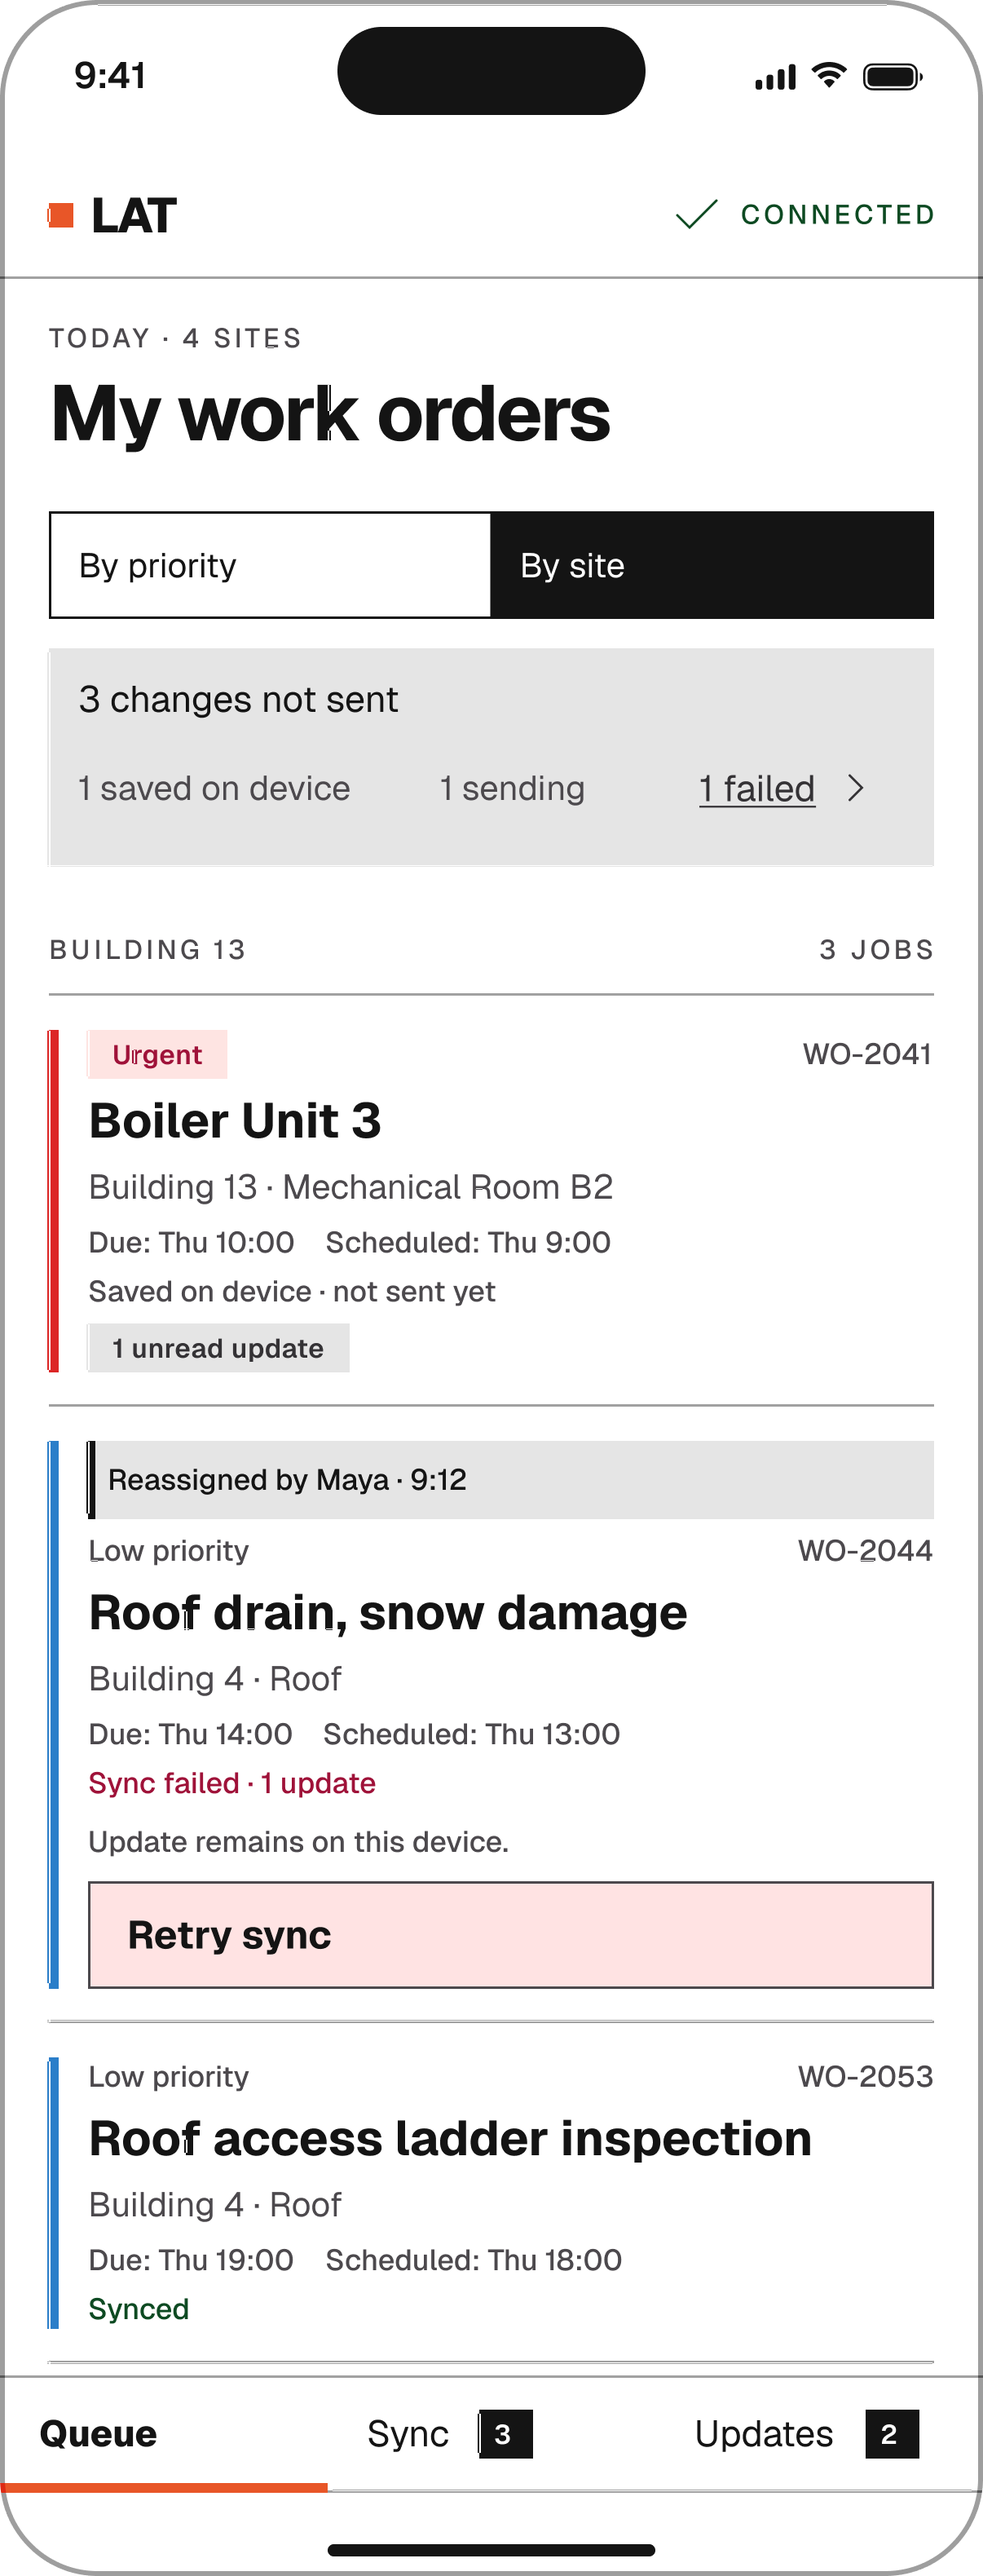
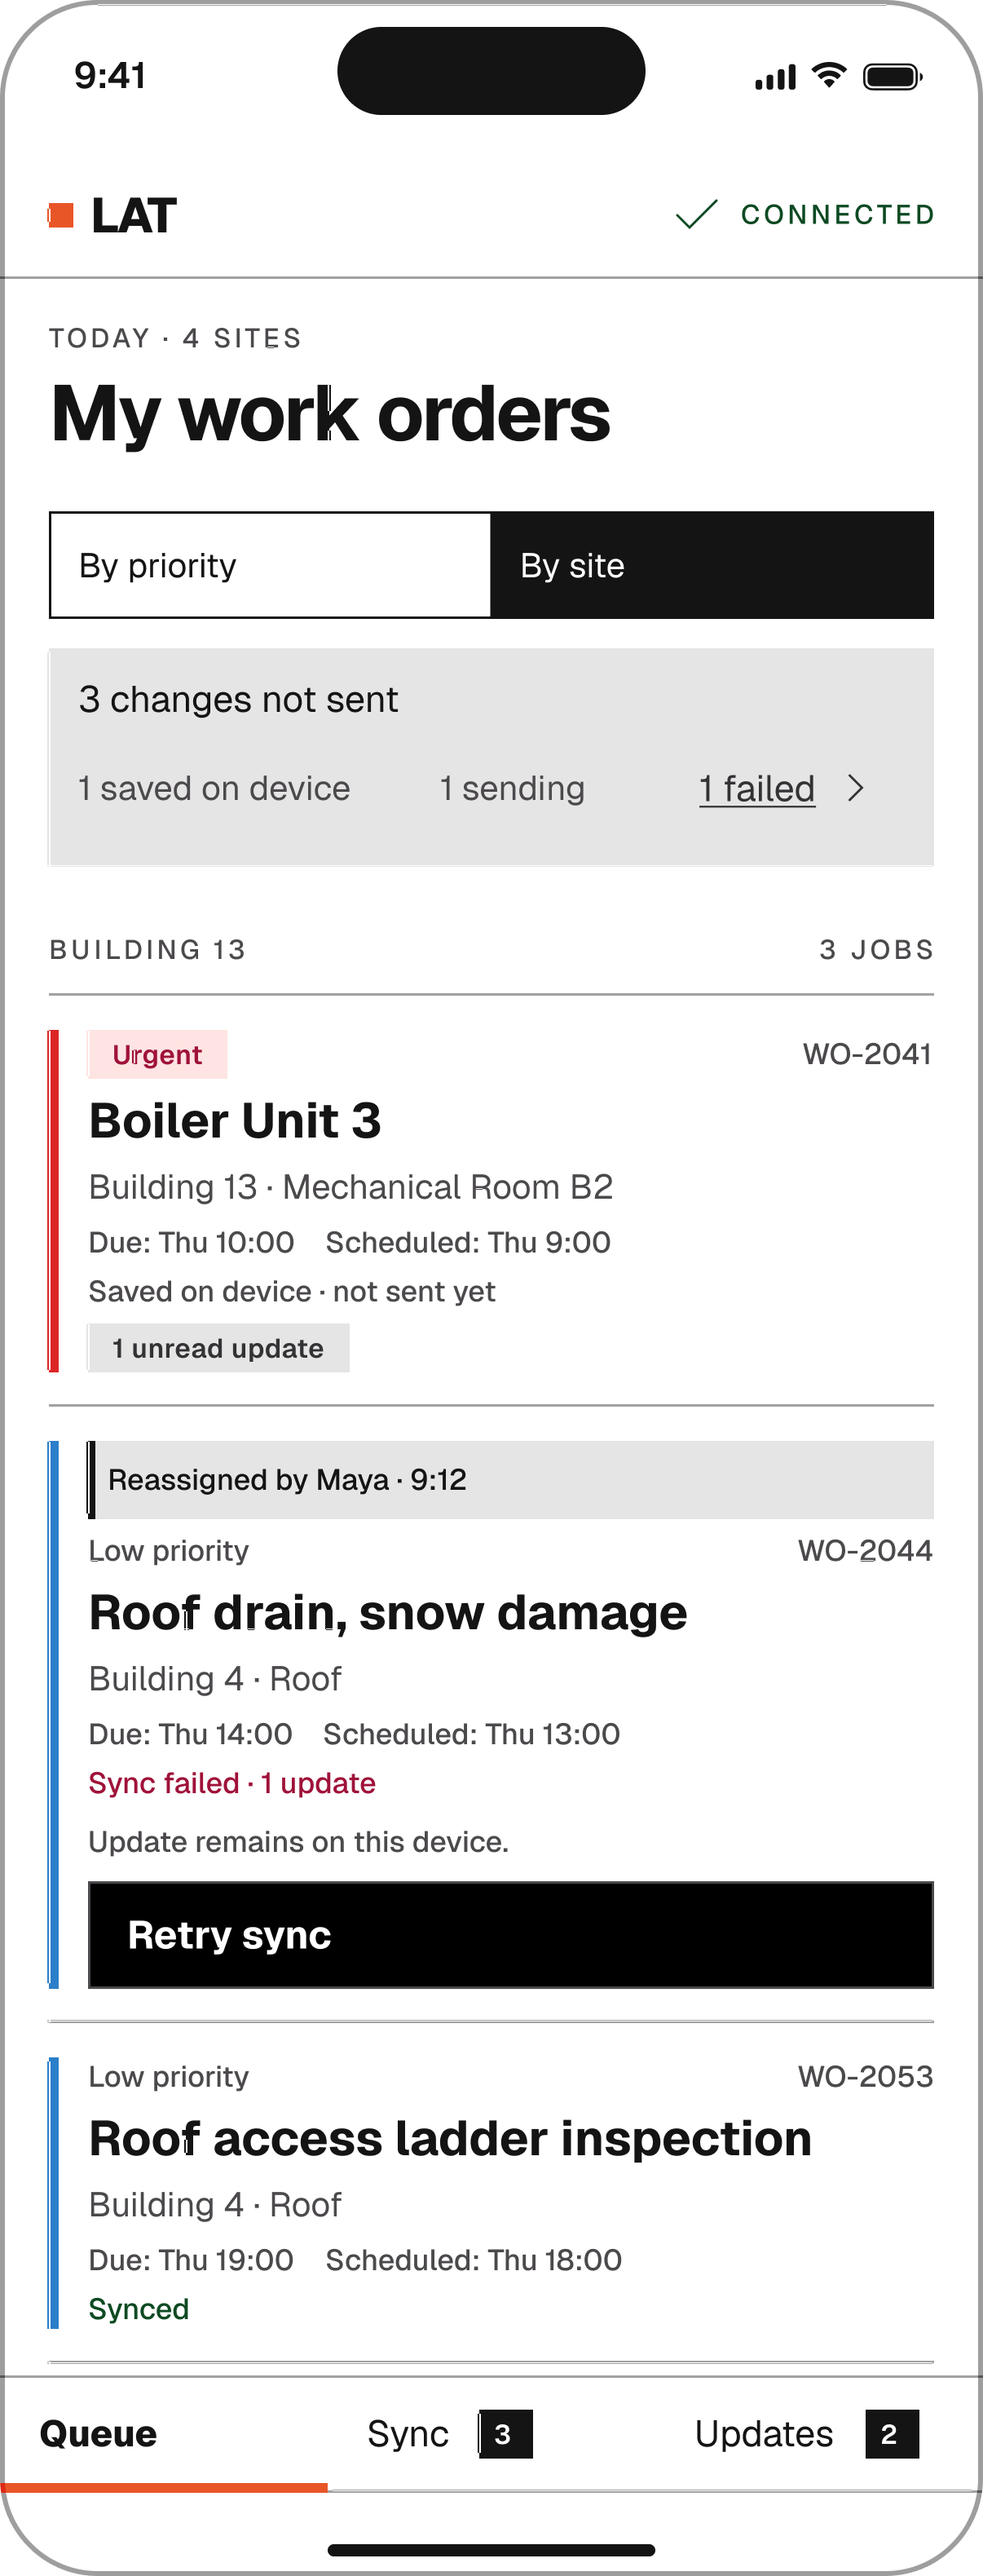
Polish technician queue: remove dashed highlights, use clean failed-state asset
- Removed the pulsing dashed highlight boxes from the "up close" row per
  feedback — the tight zoom crops already make the delta obvious.
- Swapped in a purpose-cropped "Sync failed.png" for the failed/retry
  close-up, replacing the rough full-screen crop.
- V3 screen's Retry sync button restyled to solid black, matching the
  site's other primary buttons.

Changed region(s): [[0.092, 0.7135, 0.9511, 0.7756]]

diff --git a/app/work/[slug]/page.tsx b/app/work/[slug]/page.tsx
@@ -832,10 +832,7 @@ const caseStudies = {
 
                   <div style={{ flex: '0 1 440px', minWidth: '320px' }}>
                     <div style={{ backgroundColor: '#FFFFFF', border: '1px solid #E7E5E4', boxShadow: '0 2px 10px rgba(0,0,0,0.06)', padding: '20px' }}>
-                      <div style={{ position: 'relative' }}>
-                        <img loading="lazy" decoding="async" width={1086} height={222} src="/images/lat/Work%20order%20Zoom.png" alt="Work order card, zoomed on the sync state and the new unread update badge" style={{ width: '100%', height: 'auto', display: 'block' }} />
-                        <div className="cs-highlight-box" style={{ top: '46px', height: '33px' }} />
-                      </div>
+                      <img loading="lazy" decoding="async" width={1086} height={222} src="/images/lat/Work%20order%20Zoom.png" alt="Work order card, zoomed on the sync state and the new unread update badge" style={{ width: '100%', height: 'auto', display: 'block' }} />
                     </div>
                     <div style={{ fontSize: '11px', fontWeight: 700, letterSpacing: '0.04em', textTransform: 'uppercase', color: '#FF7C5F', marginTop: '14px' }}>+ Unread flag</div>
                     <div style={{ fontSize: '13px', color: '#57534E', marginTop: '4px' }}>"1 unread update" flags a change on this job the technician hasn't seen yet.</div>
@@ -843,10 +840,7 @@ const caseStudies = {
 
                   <div style={{ flex: '0 1 440px', minWidth: '320px' }}>
                     <div style={{ backgroundColor: '#FFFFFF', border: '1px solid #E7E5E4', boxShadow: '0 2px 10px rgba(0,0,0,0.06)', padding: '20px' }}>
-                      <div style={{ position: 'relative' }}>
-                        <img loading="lazy" decoding="async" width={1206} height={711} src="/images/lat/Work%20order%20Failed%20Zoom.png" alt="Work order card showing a failed sync and the Retry sync button, for the Roof drain job reassigned by Maya" style={{ width: '100%', height: 'auto', display: 'block' }} />
-                        <div className="cs-highlight-box" style={{ top: '131px', height: '103px' }} />
-                      </div>
+                      <img loading="lazy" decoding="async" width={1086} height={756} src="/images/lat/Sync%20failed.png" alt="Work order card showing a failed sync and the Retry sync button, for the Roof drain job reassigned by Maya" style={{ width: '100%', height: 'auto', display: 'block' }} />
                     </div>
                     <div style={{ fontSize: '11px', fontWeight: 700, letterSpacing: '0.04em', textTransform: 'uppercase', color: '#FF7C5F', marginTop: '14px' }}>+ Failed and retry</div>
                     <div style={{ fontSize: '13px', color: '#57534E', marginTop: '4px' }}>When sync fails, the card says so in place and offers Retry — the update stays safe on the device either way.</div>

diff --git a/app/globals.css b/app/globals.css
@@ -219,22 +219,6 @@ img, video {
   50% { transform: translateY(5px); opacity: 1; }
 }
 
-/* Case study diagrams: dashed outline calling out what changed between two screens */
-@keyframes csHighlightPulse {
-  0%, 100% { opacity: 0.4; }
-  50% { opacity: 1; }
-}
-
-.cs-highlight-box {
-  position: absolute;
-  left: 6px;
-  right: 6px;
-  border: 2px dashed #A8A29E;
-  border-radius: 4px;
-  pointer-events: none;
-  animation: csHighlightPulse 1.8s ease-in-out infinite;
-}
-
 /* Splash screen: the brand-green field breathes once instead of sitting flat */
 @keyframes splashPulse {
   0% { transform: scale(0.98); }
